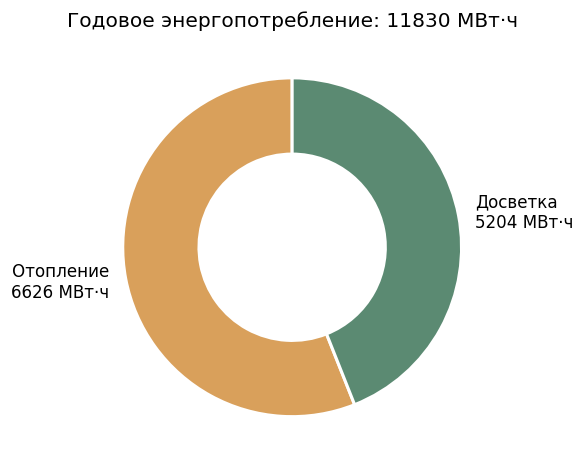
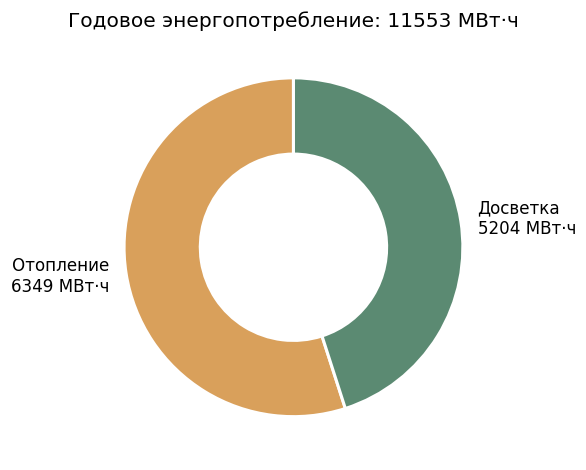
[agent] docs: Observability section with public LangSmith trace
Added the demo trace from a real graph run as a permanent showcase in the
README. Reads from a public share link (no LangSmith account needed):

  https://smith.langchain.com/public/a01d47f7-0c9d-4c5c-ad22-3e123d09670c/r

Section includes:
- Clickable badge to the live trace
- Per-node timing table — drives the "LLM only in Designer" story
- Screenshot at docs/langsmith_trace.png
- Brief enablement instructions (3 env vars, no code changes)

Both README.md and README.en.md updated symmetrically.

diff --git a/README.md b/README.md
@@ -257,6 +257,32 @@ agro-greenhouse-designer/
 
 ---
 
+## Observability — LangSmith trace
+
+[![Trace](https://img.shields.io/badge/trace-langsmith-ff6b35.svg)](https://smith.langchain.com/public/a01d47f7-0c9d-4c5c-ad22-3e123d09670c/r)
+
+Полный trace одного прогона графа (открывается без аккаунта): каждая нода
+дерева, время каждого шага, токены, стоимость, входы и выходы. Иллюстрирует
+ключевой паттерн проекта — **LLM работает только в Designer, остальное
+детерминированный Python**:
+
+| Узел | Время | LLM |
+| --- | --- | --- |
+| Analyst | мгновенно | — |
+| Designer | ~21 с | Claude Sonnet 4.6 |
+| Engineer | мгновенно | — |
+| Validator | ~1.6 с | RAG, не LLM |
+| Reporter | ~3.5 с | — |
+
+**Итого ≈ 27 с / 5.3K токенов / $0.03 за прогон.** 80% времени и 100% денег
+на Designer; всё остальное — pure Python.
+
+![LangSmith trace](docs/langsmith_trace.png)
+
+Активируется тремя env-переменными (см. [.env.example](.env.example)):
+`LANGSMITH_API_KEY`, `LANGSMITH_TRACING=true`, `LANGSMITH_PROJECT`.
+LangGraph отправляет трейсы автоматически — никаких правок в коде.
+
 ## Безопасность API-ключа в live-режиме
 
 Live-режим требует от посетителя вставить свой `ANTHROPIC_API_KEY` в сайдбар.

diff --git a/README.en.md b/README.en.md
@@ -286,6 +286,31 @@ agro-greenhouse-designer/
 
 ---
 
+## Observability — LangSmith trace
+
+[![Trace](https://img.shields.io/badge/trace-langsmith-ff6b35.svg)](https://smith.langchain.com/public/a01d47f7-0c9d-4c5c-ad22-3e123d09670c/r)
+
+Full trace of one graph run (opens without an account): every node, timings,
+tokens, cost, inputs and outputs. Illustrates the core project pattern —
+**LLM only runs inside Designer; everything else is deterministic Python**:
+
+| Node | Wall time | LLM |
+| --- | --- | --- |
+| Analyst | instant | — |
+| Designer | ~21 s | Claude Sonnet 4.6 |
+| Engineer | instant | — |
+| Validator | ~1.6 s | RAG, not LLM |
+| Reporter | ~3.5 s | — |
+
+**Total ≈ 27 s / 5.3K tokens / $0.03 per run.** 80% of the wall clock and
+100% of the spend goes to Designer; everything else is pure Python.
+
+![LangSmith trace](docs/langsmith_trace.png)
+
+Activated by three env vars (see [.env.example](.env.example)):
+`LANGSMITH_API_KEY`, `LANGSMITH_TRACING=true`, `LANGSMITH_PROJECT`.
+LangGraph emits traces automatically — no code changes.
+
 ## API key safety in live mode
 
 Live mode requires the visitor to paste an `ANTHROPIC_API_KEY` into the